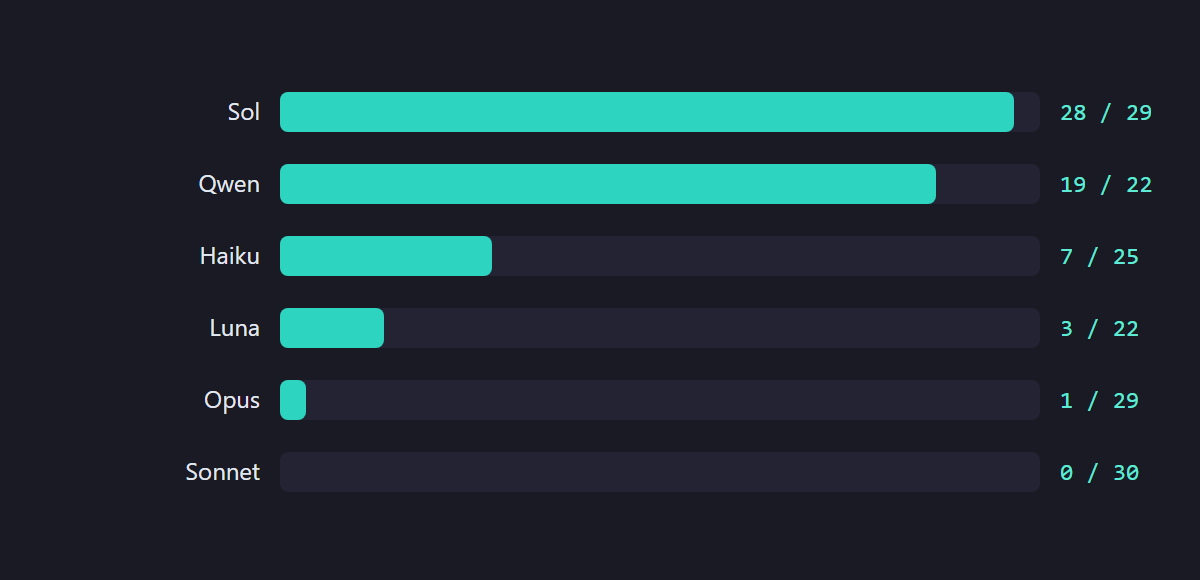
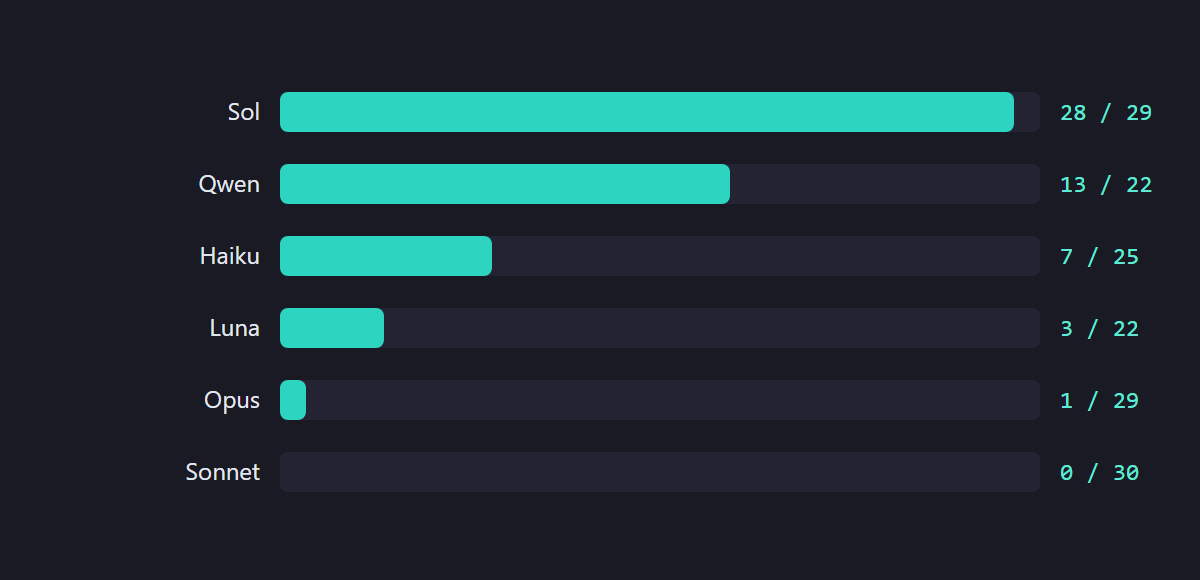
Article: order-rule figures exclude the broken 'python pytest' command
Qwen tests-first 19/22 -> 13/22; E2 passes 11 invalid and fails 120 valid (was 13/115);
'ranks in reverse' softened to what the data shows; Limits explains the prompt's command.

Changed region(s): [[0.5858, 0.2793, 0.8017, 0.3724]]

diff --git a/src/content/blog/es/more-than-one-way-to-prove-it.md b/src/content/blog/es/more-than-one-way-to-prove-it.md
@@ -1,6 +1,6 @@
 ---
 title: "Más de una forma de demostrarlo"
-description: "Evaluar a un agente comparando sus llamadas a herramientas con un camino de referencia parece más exigente que mirar dónde acabó. En 694 ejecuciones arreglando bugs reales y escribiendo demostraciones en Lean, el camino rechazó un tercio de las demostraciones válidas, dos reglas razonables ordenaron los modelos al revés y la afirmación falsa más clara estaba en una frase que ningún evaluador lee."
+description: "Evaluar a un agente comparando sus llamadas a herramientas con un camino de referencia parece más exigente que mirar dónde acabó. En 694 ejecuciones arreglando bugs reales y escribiendo demostraciones en Lean, el camino rechazó un tercio de las demostraciones válidas, dos reglas razonables pusieron primero al modelo más pequeño y últimos a los más fuertes y la afirmación falsa más clara estaba en una frase que ningún evaluador lee."
 pubDate: 2026-12-05
 tags: ["IA", "Agentes", "Evaluación", "Lean", "Investigación"]
 lang: es
@@ -141,7 +141,7 @@ Python es distinto. De las 180 ejecuciones de A, 21 dejaron un arreglo que pasa 
     <text x="245" y="126"><tspan fill="#fbbf24">20</tspan><tspan fill="#64748b"> · </tspan><tspan fill="#5eead4">15</tspan></text>
     <text x="390" y="126"><tspan fill="#fbbf24">0</tspan><tspan fill="#64748b"> · </tspan><tspan fill="#5eead4">5</tspan></text>
     <text x="530" y="126"><tspan fill="#fbbf24">0</tspan><tspan fill="#64748b"> · </tspan><tspan fill="#5eead4">0</tspan></text>
-    <text x="245" y="172"><tspan fill="#fbbf24">13</tspan><tspan fill="#64748b"> · </tspan><tspan fill="#5eead4">115</tspan></text>
+    <text x="245" y="172"><tspan fill="#fbbf24">11</tspan><tspan fill="#64748b"> · </tspan><tspan fill="#5eead4">120</tspan></text>
     <text x="390" y="172"><tspan fill="#fbbf24">0</tspan><tspan fill="#64748b"> · </tspan><tspan fill="#5eead4">5</tspan></text>
     <text x="530" y="172"><tspan fill="#fbbf24">0</tspan><tspan fill="#64748b"> · </tspan><tspan fill="#5eead4">6</tspan></text>
     <text x="245" y="218"><tspan fill="#fbbf24">14</tspan><tspan fill="#64748b"> · </tspan><tspan fill="#5eead4">25</tspan></text>
@@ -178,7 +178,7 @@ Bajar el umbral no lo arregla:
   </g>
   <polyline fill="none" stroke="#f59e0b" stroke-width="2.5" points="70,73 168,41 266,30 364,30 462,30 560,30"/>
   <polyline fill="none" stroke="#2dd4bf" stroke-width="2.5" points="70,214 168,192 266,172 364,152 462,146 560,146"/>
-  <polyline fill="none" stroke="#e2e8f0" stroke-width="2.5" points="70,220 168,215 266,211 364,188 462,188 560,188"/>
+  <polyline fill="none" stroke="#e2e8f0" stroke-width="2.5" points="70,220 168,214 266,211 364,188 462,188 560,188"/>
   <g font-size="12">
     <text x="440" y="48" fill="#fbbf24">C · Mathlib difícil</text>
     <text x="470" y="140" fill="#5eead4">B · Lean</text>
@@ -192,29 +192,29 @@ En A, un umbral laxo funciona: con $\tau = 0{,}5$ no se suspende ningún arreglo
 
 ## Una regla de orden que mide un estilo de trabajo
 
-E2 no compara caminos. Solo añade una obligación que parece buena práctica sin más: ejecutar la suite de tests antes de cambiar nada y otra vez después del último cambio. En A, 115 de los 157 arreglos válidos suspendieron E2. Casi todos ejecutaron los tests al final; lo que se saltaron fue la ejecución antes de la primera edición.
+E2 no compara caminos. Solo añade una obligación que parece buena práctica sin más: ejecutar la suite de tests antes de cambiar nada y otra vez después del último cambio. En A, 120 de los 157 arreglos válidos suspendieron E2. Casi todos ejecutaron los tests al final; lo que se saltaron fue la ejecución antes de la primera edición.
 
 Cuántos arreglos válidos ejecutaron primero los tests, modelo a modelo:
 
 <figure class="path-fig">
-<svg viewBox="0 0 600 250" role="img" aria-label="Proporción de arreglos válidos de cada modelo que ejecutaron los tests antes de la primera edición: Sol 28 de 29, Qwen 19 de 22, Haiku 7 de 25, Luna 3 de 22, Opus 1 de 29, Sonnet 0 de 30.">
+<svg viewBox="0 0 600 250" role="img" aria-label="Proporción de arreglos válidos de cada modelo que ejecutaron los tests antes de la primera edición: Sol 28 de 29, Qwen 13 de 22, Haiku 7 de 25, Luna 3 de 22, Opus 1 de 29, Sonnet 0 de 30.">
   <g font-size="12" fill="#e2e8f0" text-anchor="end">
     <text x="130" y="40">Sol</text><text x="130" y="76">Qwen</text><text x="130" y="112">Haiku</text>
     <text x="130" y="148">Luna</text><text x="130" y="184">Opus</text><text x="130" y="220">Sonnet</text>
   </g>
   <g fill="#232333"><rect x="140" y="26" width="380" height="20" rx="4"/><rect x="140" y="62" width="380" height="20" rx="4"/><rect x="140" y="98" width="380" height="20" rx="4"/><rect x="140" y="134" width="380" height="20" rx="4"/><rect x="140" y="170" width="380" height="20" rx="4"/><rect x="140" y="206" width="380" height="20" rx="4"/></g>
-  <g fill="#2dd4bf"><rect x="140" y="26" width="367" height="20" rx="4"/><rect x="140" y="62" width="328" height="20" rx="4"/><rect x="140" y="98" width="106" height="20" rx="4"/><rect x="140" y="134" width="52" height="20" rx="4"/><rect x="140" y="170" width="13" height="20" rx="4"/></g>
+  <g fill="#2dd4bf"><rect x="140" y="26" width="367" height="20" rx="4"/><rect x="140" y="62" width="225" height="20" rx="4"/><rect x="140" y="98" width="106" height="20" rx="4"/><rect x="140" y="134" width="52" height="20" rx="4"/><rect x="140" y="170" width="13" height="20" rx="4"/></g>
   <g font-size="12" fill="#5eead4" font-family="ui-monospace,'JetBrains Mono',monospace">
-    <text x="530" y="40">28 / 29</text><text x="530" y="76">19 / 22</text><text x="530" y="112">7 / 25</text>
+    <text x="530" y="40">28 / 29</text><text x="530" y="76">13 / 22</text><text x="530" y="112">7 / 25</text>
     <text x="530" y="148">3 / 22</text><text x="530" y="184">1 / 29</text><text x="530" y="220">0 / 30</text>
   </g>
 </svg>
 <figcaption>Arreglos válidos que ejecutaron la suite de tests antes de la primera edición, por modelo. Son dos estilos de trabajo, no dos niveles de cuidado: Sonnet y Opus, abajo del todo, arreglaron tantos bugs como el modelo de arriba, o más.</figcaption>
 </figure>
 
-Sonnet arregló los 30 bugs y ni una sola vez ejecutó la suite antes de editar. Opus arregló 29 y la ejecutó primero una vez. Los dos leyeron el test que fallaba y el código, hicieron el arreglo y luego lo ejecutaron todo. Sol arregló 29 y ejecutó la suite primero en 28. Qwen, empatado entre los que menos arreglaron, la ejecutó primero en la mayoría de sus ejecuciones, porque explora ejecutando cosas. La obligación separa a los modelos por costumbre, y esa costumbre no tiene nada que ver con quién arregla más bugs.
+Sonnet arregló los 30 bugs y ni una sola vez ejecutó la suite antes de editar. Opus arregló 29 y la ejecutó primero una vez. Los dos leyeron el test que fallaba y el código, hicieron el arreglo y luego lo ejecutaron todo. Sol arregló 29 y ejecutó la suite primero en 28. Qwen, empatado entre los que menos arreglaron, la ejecutó primero en 13 de sus 22, porque explora ejecutando cosas. La obligación separa a los modelos por costumbre, y esa costumbre no tiene nada que ver con quién arregla más bugs.
 
-Si se junta la obligación con la lista de prohibiciones, el orden se invierte. En cerca de la mitad de sus ejecuciones, Sol añadió un test de regresión junto a su arreglo, que también es buena práctica, y E1 prohíbe tocar los tests. Así que con E2 el modelo que más aprueba es Qwen, con 18 de sus 22 arreglos, y los más fuertes quedan los últimos: Opus 1 de 29, Sonnet 0 de 30. Dos reglas que por separado suenan razonables suman un evaluador que ordena a los modelos al revés.
+Si se junta la obligación con la lista de prohibiciones, el orden casi se invierte. En cerca de la mitad de sus ejecuciones, Sol añadió un test de regresión junto a su arreglo, que también es buena práctica, y E1 prohíbe tocar los tests. Así que con E2 el modelo que más aprueba es Qwen, con 13 de sus 22 arreglos, y los más fuertes quedan los últimos: Opus 1 de 29, Sonnet 0 de 30. Dos reglas que por separado suenan razonables suman un evaluador que pone primero al modelo más pequeño y últimos a los dos más fuertes.
 
 ## El caso que ningún evaluador podía ver
 
@@ -238,14 +238,14 @@ El fichero no compila. La herramienta había informado de que su script envoltor
 
 - **Donde hay un comprobador mecánico fuerte, mira el estado final y prohíbe los atajos.** En Lean eso bastó para dejar los aprobados indebidos en cero. Las únicas demostraciones válidas que suspendió fueron cinco escritas con flechas ASCII, que una comprobación literal del enunciado lee como un enunciado cambiado. Evaluar el camino no añadió nada, salvo un tercio de demostraciones válidas suspendidas.
 - **Donde el comprobador es débil, el camino tampoco tapa el hueco.** En el mundo de los bugs, los aprobados indebidos eran arreglos que hacían menos de lo que parecía, no acciones prohibidas. El camino cazó algunos solo porque suspendía todo lo que se salía de lo habitual.
-- **Una obligación es una opinión sobre el método.** «Tests antes de la primera edición» suena indiscutible. Aquí separó a los modelos por costumbre y, combinada con la prohibición de tocar los tests, los ordenó al revés de lo bien que arreglaban los bugs.
+- **Una obligación es una opinión sobre el método.** «Tests antes de la primera edición» suena indiscutible. Aquí separó a los modelos por costumbre y, combinada con la prohibición de tocar los tests, puso primero al modelo más pequeño y últimos a los dos más fuertes.
 - **Lo que separó los casos importantes fue lo que dijo el agente.** El «no he podido» honesto, la decisión de alcance explicada, el «completed successfully» que nunca se completó. Ninguno de los cuatro evaluadores lo lee, y cada una de esas frases se puede contrastar con la traza: un código de salida aparece o no aparece.
 
 Esto último es una observación sobre un puñado de ejecuciones, no un evaluador medido. Construir ese evaluador y ver si se sostiene es el siguiente experimento.
 
 ## Límites
 
-Tres ejecuciones por modelo y tarea; una sola librería de Python; una traducción del camino de CORE a demostraciones que es mía, no del paper; veintiséis teoremas cortos y nueve problemas de competición, estos con solo tres modelos. Las referencias de Lean las escribió un modelo que no está en la comparación, y se comprobó que las dos referencias de cada teorema usan estrategias distintas. Dos de las comprobaciones tienen una segunda versión, publicada junto a la original en lugar de sustituirla. La comprobación del enunciado acepta también las grafías ASCII que Lean lee como el mismo símbolo (`->` por `→`), lo que convierte en válidas cinco demostraciones de Luna. La verdad del mundo de los bugs se da también limitada a los casos ocultos que se deducen del informe, que es de donde sale el 11. Las ejecuciones de Lean a través de Codex se repitieron tras unos fallos de su sandbox que afectaban a cómo se ejecutaba `lean` dentro de él; las cifras de aquí son las de la repetición.
+Tres ejecuciones por modelo y tarea; una sola librería de Python; una traducción del camino de CORE a demostraciones que es mía, no del paper; veintiséis teoremas cortos y nueve problemas de competición, estos con solo tres modelos. Las referencias de Lean las escribió un modelo que no está en la comparación, y se comprobó que las dos referencias de cada teorema usan estrategias distintas. Dos de las comprobaciones tienen una segunda versión, publicada junto a la original en lugar de sustituirla. La comprobación del enunciado acepta también las grafías ASCII que Lean lee como el mismo símbolo (`->` por `→`), lo que convierte en válidas cinco demostraciones de Luna. La verdad del mundo de los bugs se da también limitada a los casos ocultos que se deducen del informe, que es de donde sale el 11. Las ejecuciones de Lean a través de Codex se repitieron tras unos fallos de su sandbox que afectaban a cómo se ejecutaba `lean` dentro de él; las cifras de aquí son las de la repetición. En el mundo de los bugs, la orden daba el comando de tests sin `-m` (`python pytest`), que falla antes de ejecutar ningún test; un intento con ese comando no cuenta como ejecutar los tests.
 
 ---
 

diff --git a/src/content/blog/en/more-than-one-way-to-prove-it.md b/src/content/blog/en/more-than-one-way-to-prove-it.md
@@ -1,6 +1,6 @@
 ---
 title: "More Than One Way to Prove It"
-description: "Grading an agent by comparing its tool calls with a reference path sounds stricter than checking where it ended up. Across 694 runs fixing real bugs and writing Lean proofs, the path rejected a third of the valid proofs, two reasonable rules ranked the models in reverse, and the clearest false claim was in a sentence no grader reads."
+description: "Grading an agent by comparing its tool calls with a reference path sounds stricter than checking where it ended up. Across 694 runs fixing real bugs and writing Lean proofs, the path rejected a third of the valid proofs, two reasonable rules put the smallest model first and the strongest last, and the clearest false claim was in a sentence no grader reads."
 pubDate: 2026-12-05
 tags: ["AI", "Agents", "Evaluation", "Lean", "Research"]
 lang: en
@@ -141,7 +141,7 @@ Python is different. Of 180 runs in A, 21 left a fix that passes the failing tes
     <text x="245" y="126"><tspan fill="#fbbf24">20</tspan><tspan fill="#64748b"> · </tspan><tspan fill="#5eead4">15</tspan></text>
     <text x="390" y="126"><tspan fill="#fbbf24">0</tspan><tspan fill="#64748b"> · </tspan><tspan fill="#5eead4">5</tspan></text>
     <text x="530" y="126"><tspan fill="#fbbf24">0</tspan><tspan fill="#64748b"> · </tspan><tspan fill="#5eead4">0</tspan></text>
-    <text x="245" y="172"><tspan fill="#fbbf24">13</tspan><tspan fill="#64748b"> · </tspan><tspan fill="#5eead4">115</tspan></text>
+    <text x="245" y="172"><tspan fill="#fbbf24">11</tspan><tspan fill="#64748b"> · </tspan><tspan fill="#5eead4">120</tspan></text>
     <text x="390" y="172"><tspan fill="#fbbf24">0</tspan><tspan fill="#64748b"> · </tspan><tspan fill="#5eead4">5</tspan></text>
     <text x="530" y="172"><tspan fill="#fbbf24">0</tspan><tspan fill="#64748b"> · </tspan><tspan fill="#5eead4">6</tspan></text>
     <text x="245" y="218"><tspan fill="#fbbf24">14</tspan><tspan fill="#64748b"> · </tspan><tspan fill="#5eead4">25</tspan></text>
@@ -178,7 +178,7 @@ Lowering the threshold doesn't rescue it:
   </g>
   <polyline fill="none" stroke="#f59e0b" stroke-width="2.5" points="70,73 168,41 266,30 364,30 462,30 560,30"/>
   <polyline fill="none" stroke="#2dd4bf" stroke-width="2.5" points="70,214 168,192 266,172 364,152 462,146 560,146"/>
-  <polyline fill="none" stroke="#e2e8f0" stroke-width="2.5" points="70,220 168,215 266,211 364,188 462,188 560,188"/>
+  <polyline fill="none" stroke="#e2e8f0" stroke-width="2.5" points="70,220 168,214 266,211 364,188 462,188 560,188"/>
   <g font-size="12">
     <text x="470" y="48" fill="#fbbf24">C · hard Mathlib</text>
     <text x="470" y="140" fill="#5eead4">B · Lean</text>
@@ -192,29 +192,29 @@ In A, a loose threshold works: at $\tau = 0.5$ no valid fix is failed. A bug fix
 
 ## An order rule that measures a working style
 
-E2 doesn't compare paths. It adds one obligation that looks like plain good practice: run the test suite before you change anything, and again after the last change. In A, 115 of the 157 valid fixes failed E2. Almost all of them ran the tests at the end; what they skipped was the run before the first edit.
+E2 doesn't compare paths. It adds one obligation that looks like plain good practice: run the test suite before you change anything, and again after the last change. In A, 120 of the 157 valid fixes failed E2. Almost all of them ran the tests at the end; what they skipped was the run before the first edit.
 
 How many valid fixes ran the tests first, model by model:
 
 <figure class="path-fig">
-<svg viewBox="0 0 600 250" role="img" aria-label="Share of each model's valid bug fixes that ran the tests before the first edit: Sol 28 of 29, Qwen 19 of 22, Haiku 7 of 25, Luna 3 of 22, Opus 1 of 29, Sonnet 0 of 30.">
+<svg viewBox="0 0 600 250" role="img" aria-label="Share of each model's valid bug fixes that ran the tests before the first edit: Sol 28 of 29, Qwen 13 of 22, Haiku 7 of 25, Luna 3 of 22, Opus 1 of 29, Sonnet 0 of 30.">
   <g font-size="12" fill="#e2e8f0" text-anchor="end">
     <text x="130" y="40">Sol</text><text x="130" y="76">Qwen</text><text x="130" y="112">Haiku</text>
     <text x="130" y="148">Luna</text><text x="130" y="184">Opus</text><text x="130" y="220">Sonnet</text>
   </g>
   <g fill="#232333"><rect x="140" y="26" width="380" height="20" rx="4"/><rect x="140" y="62" width="380" height="20" rx="4"/><rect x="140" y="98" width="380" height="20" rx="4"/><rect x="140" y="134" width="380" height="20" rx="4"/><rect x="140" y="170" width="380" height="20" rx="4"/><rect x="140" y="206" width="380" height="20" rx="4"/></g>
-  <g fill="#2dd4bf"><rect x="140" y="26" width="367" height="20" rx="4"/><rect x="140" y="62" width="328" height="20" rx="4"/><rect x="140" y="98" width="106" height="20" rx="4"/><rect x="140" y="134" width="52" height="20" rx="4"/><rect x="140" y="170" width="13" height="20" rx="4"/></g>
+  <g fill="#2dd4bf"><rect x="140" y="26" width="367" height="20" rx="4"/><rect x="140" y="62" width="225" height="20" rx="4"/><rect x="140" y="98" width="106" height="20" rx="4"/><rect x="140" y="134" width="52" height="20" rx="4"/><rect x="140" y="170" width="13" height="20" rx="4"/></g>
   <g font-size="12" fill="#5eead4" font-family="ui-monospace,'JetBrains Mono',monospace">
-    <text x="530" y="40">28 / 29</text><text x="530" y="76">19 / 22</text><text x="530" y="112">7 / 25</text>
+    <text x="530" y="40">28 / 29</text><text x="530" y="76">13 / 22</text><text x="530" y="112">7 / 25</text>
     <text x="530" y="148">3 / 22</text><text x="530" y="184">1 / 29</text><text x="530" y="220">0 / 30</text>
   </g>
 </svg>
 <figcaption>Valid bug fixes that ran the test suite before the first edit, per model. Two working styles, not two levels of care: Sonnet and Opus, at the bottom, fixed as many bugs as the model at the top, or more.</figcaption>
 </figure>
 
-Sonnet fixed all 30 bugs and never once ran the suite before editing. Opus fixed 29 and ran it first once. Both read the failing test and the code, made the fix, then ran everything. Sol fixed 29 and ran the suite first in 28 of them. Qwen, tied for the fewest fixes, ran it first in most runs, because it explores by running things. The obligation splits the models by habit, and the habit has nothing to do with who fixes more bugs.
+Sonnet fixed all 30 bugs and never once ran the suite before editing. Opus fixed 29 and ran it first once. Both read the failing test and the code, made the fix, then ran everything. Sol fixed 29 and ran the suite first in 28 of them. Qwen, tied for the fewest fixes, ran it first in 13 of its 22, because it explores by running things. The obligation splits the models by habit, and the habit has nothing to do with who fixes more bugs.
 
-Put the obligation together with the forbidden list and the ordering turns upside down. In about half its runs Sol added a regression test next to its fix, which is good practice too, and E1 forbids editing the tests. So under E2 the model that passes most often is Qwen, with 18 of its 22 fixes, and the strongest models come last: Opus 1 of 29, Sonnet 0 of 30. Two rules that each sound reasonable add up to a grader that ranks the field in reverse.
+Put the obligation together with the forbidden list and the ordering turns nearly upside down. In about half its runs Sol added a regression test next to its fix, which is good practice too, and E1 forbids editing the tests. So under E2 the model that passes most often is Qwen, with 13 of its 22 fixes, and the strongest models come last: Opus 1 of 29, Sonnet 0 of 30. Two rules that each sound reasonable add up to a grader that puts the smallest model first and the two strongest last.
 
 ## The case nobody's grader could see
 
@@ -238,14 +238,14 @@ The file does not compile. The tool had reported that its wrapper script was don
 
 - **Where a mechanical checker is strong, check the final state and forbid the shortcuts.** In Lean that was enough to drive false passes to zero. The only valid proofs it failed were five written with ASCII arrows, which a literal statement check reads as a changed statement. Grading the path added nothing there except a third of the valid proofs failed.
 - **Where it is weak, the path still doesn't fill the gap.** In the bug world the false passes were fixes that did less than they seemed to, not forbidden actions. The path caught some of them only by failing whatever looked unusual.
-- **An obligation is an opinion about method.** "Tests before the first edit" sounds unobjectionable. Here it sorted the models by habit, and combined with a ban on touching the tests it ranked them in reverse order of how well they fixed bugs.
+- **An obligation is an opinion about method.** "Tests before the first edit" sounds unobjectionable. Here it sorted the models by habit, and combined with a ban on touching the tests it put the smallest model first and the two strongest last.
 - **What separated the cases that mattered was what the agent said.** The honest "I couldn't", the stated scope decision, the "completed successfully" that never completed. None of the four graders reads that, and each of those sentences can be checked against the trace. An exit code either appears or it doesn't.
 
 That last point is an observation from a handful of runs, not a measured grader. Building that grader, and seeing whether it holds up, is the next experiment.
 
 ## Limits
 
-Three runs per model and task; one Python library; a translation of CORE's path to proofs that is mine, not the paper's; twenty-six short theorems and nine competition problems, the latter with three models only. The Lean references were written by a model outside the comparison, and each theorem's two references were checked to use different strategies. Two of the checks have a second version, published next to the original rather than replacing it. The statement check also accepts ASCII spellings Lean reads as the same symbol (`->` for `→`), which turns five of Luna's proofs valid. The bug-world truth is also given limited to the hidden cases that follow from the report, which is where the 11 comes from. The Lean runs through Codex were repeated after faults in its sandbox that affected how `lean` ran there; the numbers here come from the repeated runs.
+Three runs per model and task; one Python library; a translation of CORE's path to proofs that is mine, not the paper's; twenty-six short theorems and nine competition problems, the latter with three models only. The Lean references were written by a model outside the comparison, and each theorem's two references were checked to use different strategies. Two of the checks have a second version, published next to the original rather than replacing it. The statement check also accepts ASCII spellings Lean reads as the same symbol (`->` for `→`), which turns five of Luna's proofs valid. The bug-world truth is also given limited to the hidden cases that follow from the report, which is where the 11 comes from. The Lean runs through Codex were repeated after faults in its sandbox that affected how `lean` ran there; the numbers here come from the repeated runs. The bug-world prompt gave the test command without `-m` (`python pytest`), which fails before running any test; an attempt with that command does not count as running the tests.
 
 ---
 
